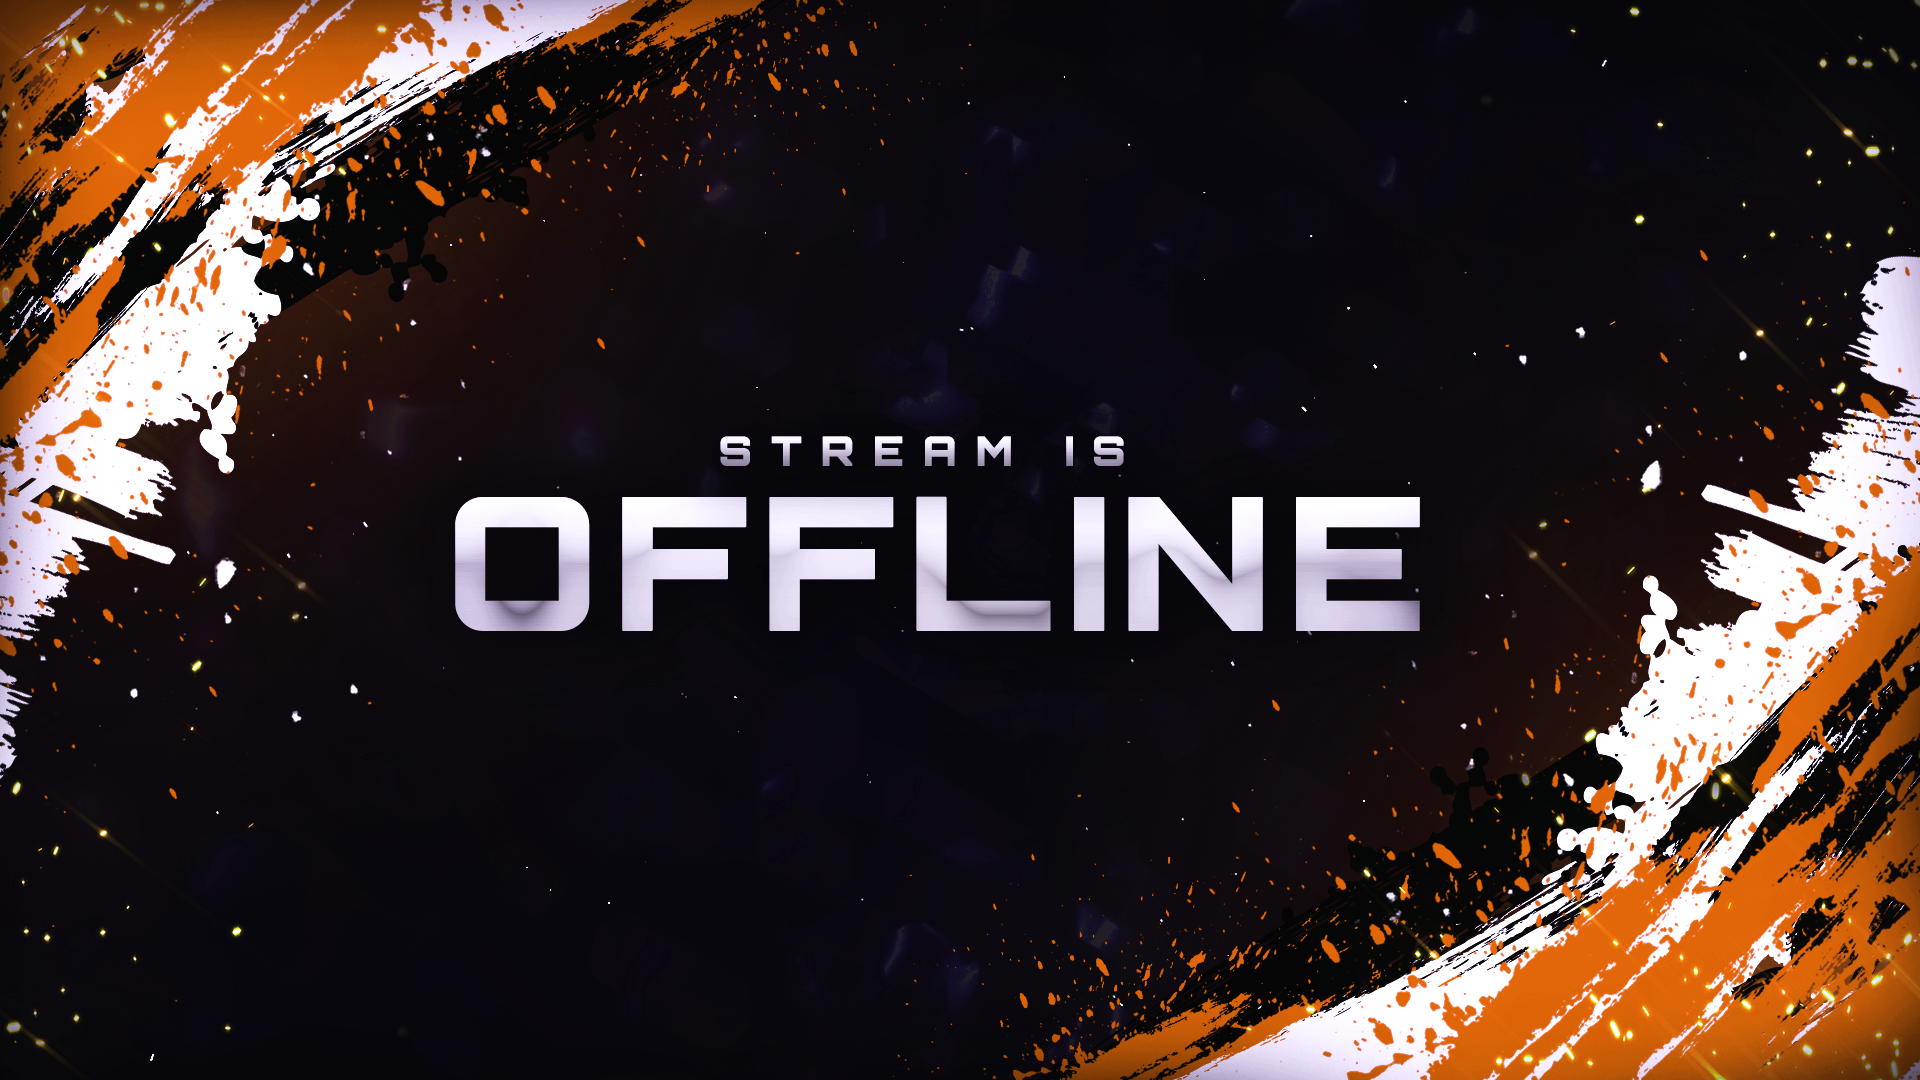
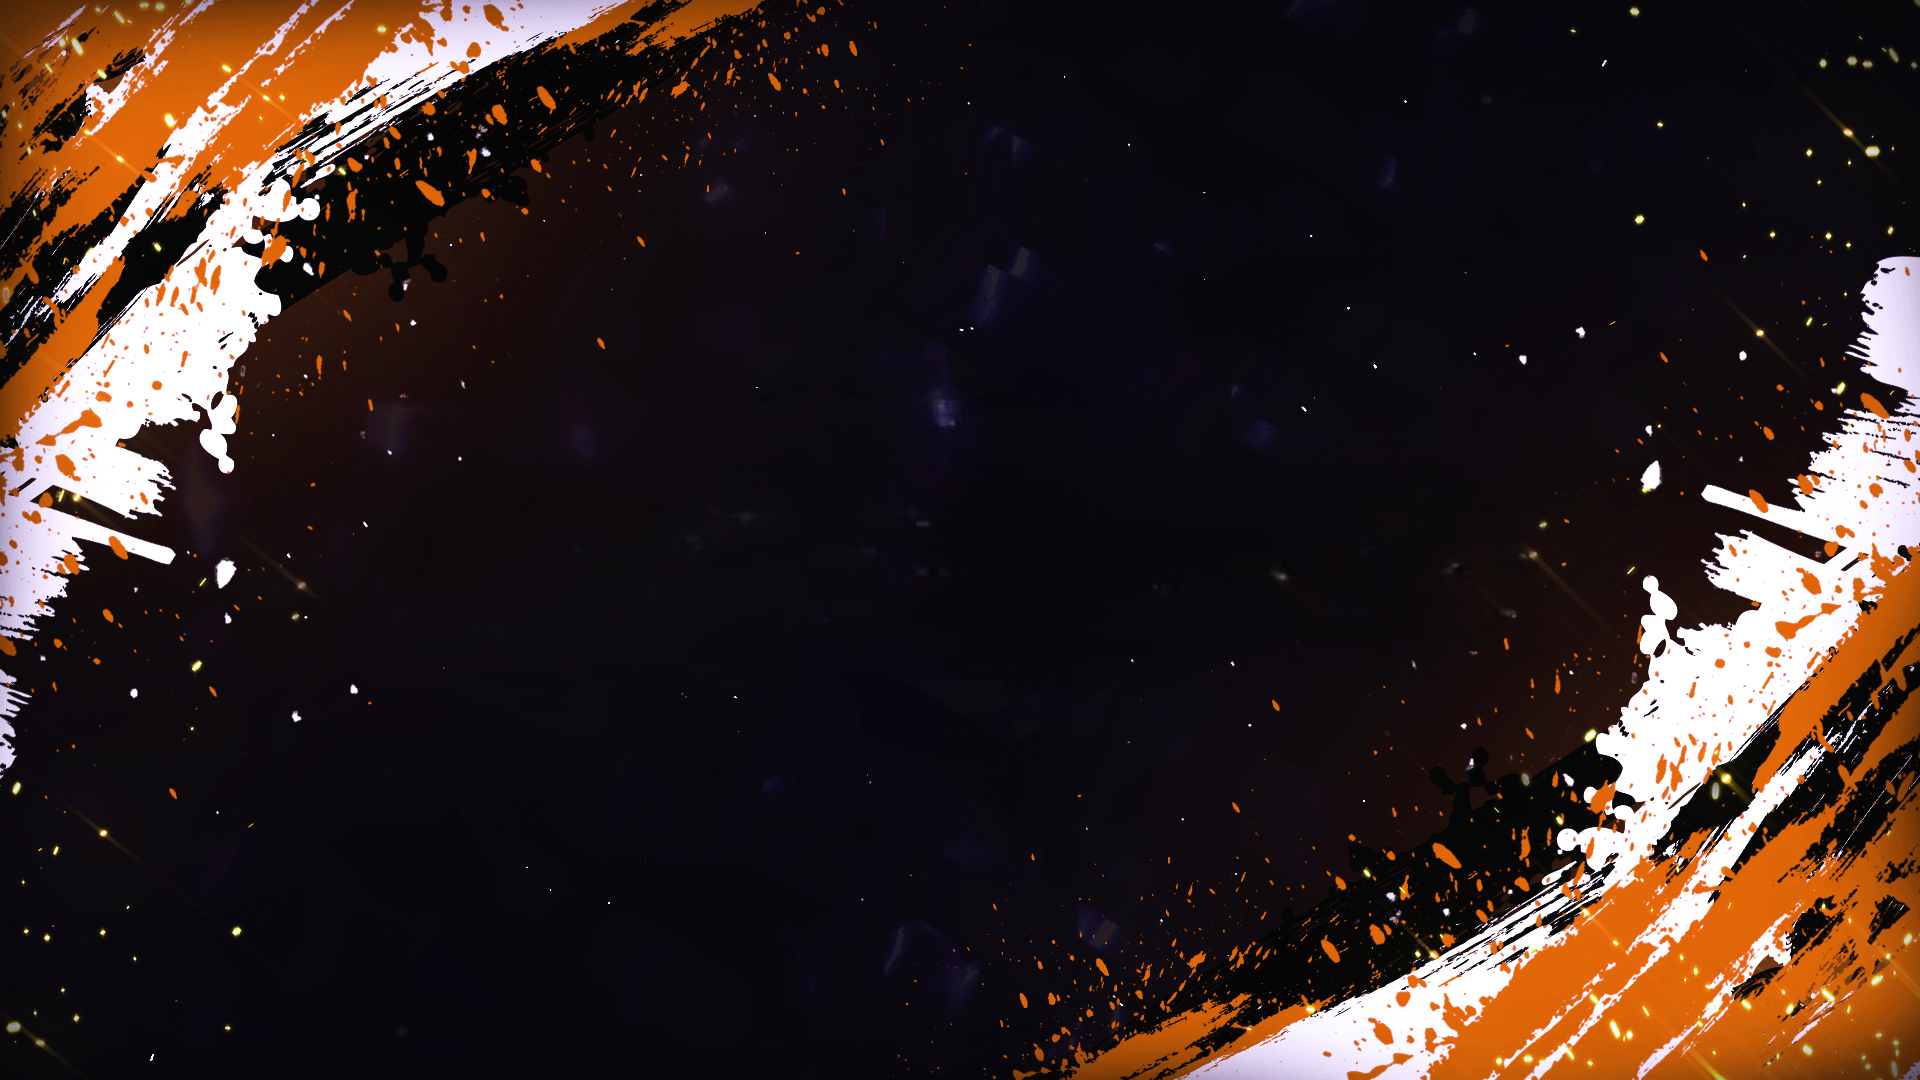
Started work on project page
Separated some of the styles on CSS just for clarity. Idea for projects. When you hover over them, they expand  little bit and show the name and type of the project. Once user clicks on them, it will bring up a whole new page with more details of the project and a download link (if applicable).

Changed region(s): [[0.2188, 0.4583, 0.75, 0.6111], [0.375, 0.3667, 0.5312, 0.4278], [0.5625, 0.3972, 0.5938, 0.4278]]

diff --git a/portfolio.html b/portfolio.html
@@ -2,6 +2,7 @@
     <head>
         <meta charset="UTF-8">
         <link rel="stylesheet" href="style.css">
+        <link rel="stylesheet" href="projects.css">
         <link rel="stylesheet" href="https://cdnjs.cloudflare.com/ajax/libs/font-awesome/6.0.0-beta3/css/all.min.css">
         <title>Name - Portfolio</title>
     </head>
@@ -23,26 +24,32 @@
                         <a href="https://www.linkedin.com/in/andrew-johnson-988235244" target="_blank"><i class="fab fa-linkedin"></i></a>
                     </div>
                 </header>
-                
+
                 <div class="projects-container">
                     <div class="project">
                         <img src="pictures/Sky Cleaner.PNG" alt="Sky Cleaner game" class="project-img">
-                        <p>This is the sky Cleaner</p>
+                        <p class="project-type">Full Game</p>
+                        <p class="project-title">Sky Cleaner</p>
                     </div>
                     <div class="project">
                         <img src="pictures/Count.PNG" alt="A game machanic demo" class="project-img">
-                        <p>This is my machanic demo</p>
+                        <p class="project-type">Prototype</p>
+                        <p class="project-title">Count</p>
                     </div>
                     <div class="project">
                         <img src="pictures/Basic Character selection.PNG" alt="A basic character slection demo" class="project-img">
-                        <p>This is a chracter selection scene</p>
+                        <p class="project-type">Prototype</p>
+                        <p class="project-title">Selection</p>
                     </div>
                     <div class="project">
                         <img src="pictures/VR Submission pic.JPG" alt="My VR walking simulator project" class="project-img">
-                        <p>This was my first major VR project outside course learning</p>
+                        <p class="project-type">Full Game</p>
+                        <p class="project-title">VR Walk</p>
                     </div>
                 </div>
             </div>
+
+            <script src="projects.js"></script>
         </body>
     </main>
 </html>

diff --git a/style.css b/style.css
@@ -36,7 +36,7 @@ p {
 
 /* Content Styles */
 #content {
-    background-color: black;
+    background-color: rgba(0, 0, 0, 0);
 }
 
 /* Header Styles */
@@ -102,6 +102,7 @@ section {
     border: solid 5px white;
     border-radius: 30px;
     align-items: center;
+    background-color: black;
 }
 
 /* Intro Section */
@@ -223,36 +224,6 @@ section {
     font-size: 10px;
     margin: 0;
     color: rgb(185, 185, 185);
-}
-
-/* Project Styles */
-.projects-container {
-    display: flex;
-    justify-content: space-around;
-    padding: 10px;
-    background-color: green;
-    flex-wrap: wrap;
-}
-
-div.project {
-    border: solid white 5px;
-    border-radius: 40px;
-    background-color: brown;
-    width: 45%;
-    padding: 5px;
-    margin: 10px;
-}
-
-.project-img {
-    width: 80%;
-    height: 60%; /* Myabe do auto*/
-    background-color: grey;
-    padding: 5px;
-    margin: 10px;
-}
-
-.project-img:hover{
-    animation: bounce 2s infinite;
 }
 
 /* Footer Styles */

diff --git a/projects.css b/projects.css
@@ -1,0 +1,41 @@
+/* Project Styles */
+.projects-container {
+    display: flex;
+    justify-content: space-around;
+    padding: 10px;
+    border: white 5px solid;
+    flex-wrap: wrap;
+}
+
+div.project {
+    width: 45%;
+    margin: 10px;
+    position: relative;
+}
+
+.project-img {
+    height: 100%;
+    width: 100%;
+    border: white 5px solid;
+    border-radius: 40px;
+}
+
+.project-type, .project-title {
+    display: none;
+    position: absolute;
+    left: 10px;
+    color: white;   /* Make the text visible */
+    font-size: 18px; /* Font size for the text */
+    background-color: rgba(0, 0, 0, 0.6); /* Optional background to make the text stand out */
+    padding: 5px;
+    border-radius: 5px;
+    z-index: 2;
+}
+
+.project-type{
+ top: 10px;
+}
+
+.project-title {
+bottom: 10px;
+}

diff --git a/projects.js b/projects.js
@@ -1,0 +1,23 @@
+init();
+
+function init() {
+    displayInfo();
+}
+
+function displayInfo(){
+    const projects = document.querySelectorAll(".project");
+    projects.forEach(element => {
+        const type = element.querySelector(".project-type");
+        const name = element.querySelector(".project-title");
+
+        element.addEventListener('mouseenter', function() {
+            type.style.display = "inline-block";
+            name.style.display = "inline-block";
+        })
+
+        element.addEventListener('mouseleave', function() {
+            type.style.display = "none";
+            name.style.display = "none";
+        })
+    });
+}
